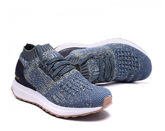
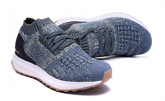
add link highlight, aligne images in gallery

diff --git a/src/Sidebar/styled.js b/src/Sidebar/styled.js
@@ -1,4 +1,5 @@
 import styled from 'styled-components';
+import { NavLink } from 'react-router-dom';
 
 export const Aside = styled.aside`
   width: 100%;
@@ -38,5 +39,30 @@ export const MenuWrapper = styled.nav`
     padding-top: 120px;
     padding-bottom: 0px;
     text-align: center;
+  }
+`;
+
+export const StyledLink = styled(NavLink)`
+  font-family: 'AndaleMono';
+  padding-top: 26px;
+  padding-bottom: 26px;
+  color: #3c3c3c;
+  display: block;
+  text-decoration: none;
+  border-bottom: 1px solid #3c3c3c;
+  padding-left: 30px;
+  @media screen and (min-width: 768px) {
+    border-bottom: none;
+    padding-left: 0px;
+    padding-bottom: 0px;
+  }
+  &:hover {
+    color: #fff;
+  }
+  &:first-child {
+    padding-top: 0px;
+  } 
+  &.active {
+    color: #fff;
   }
 `;

diff --git a/src/Sidebar/Menu/styled.js b/src/Sidebar/Menu/styled.js
@@ -1,5 +1,4 @@
 import styled from 'styled-components';
-import { Link } from 'react-router-dom';
 
 export const Wrapper = styled.div`
 `;
@@ -20,27 +19,6 @@ export const MenuIcon = styled.img`
   @media screen and (min-width: 768px) {  
   display:none;
   }
-`;
-export const StyledLink = styled(Link)`
-  font-family: 'AndaleMono';
-  padding-top: 26px;
-  padding-bottom: 26px;
-  color: #3c3c3c;
-  display: block;
-  text-decoration: none;
-  border-bottom: 1px solid #3c3c3c;
-  padding-left: 30px;
-  @media screen and (min-width: 768px) {
-    border-bottom: none;
-    padding-left: 0px;
-    padding-bottom: 0px;
-  }
-  &:hover {
-    color: #fff;
-  }
-  &:first-child {
-    padding-top: 0px;
-  } 
 `;
 
 export const ButtonTitle = styled.button`

diff --git a/src/Products/Show/Gallery/styled.js b/src/Products/Show/Gallery/styled.js
@@ -7,6 +7,7 @@ export const Wrapper = styled.div`
 export const ImageWrapper = styled.div`
   z-index: -10;
   padding-top: 4px;
+  text-align: center;
 `;
 export const BigImage = styled.img`
   width: 100%;
@@ -19,8 +20,8 @@ export const Slide = styled.img`
   width: 100%;
 `;
 export const Thumbnails = styled.div`
-  display: flex;
-  align-items: center;
+  display: block;
+  text-align: center;
 `;
 export const ButtonImage = styled.button`
   cursor: pointer;  
@@ -28,8 +29,8 @@ export const ButtonImage = styled.button`
   padding: 0px;
   background: none;
   margin-right: 10px;
+  border: ${props => (props.isSelected ? '5px solid #e0e0e0' : 'none')};
   &:focus {
-    border: 5px solid #e0e0e0;
     outline: none;
   }
 `;

diff --git a/src/Products/Show/Gallery/index.jsx b/src/Products/Show/Gallery/index.jsx
@@ -48,8 +48,15 @@ class Gallery extends Component {
         </ImageWrapper>
         <Thumbnails>
           {images.map((image, index) => (
-            <ButtonImage key={image.preview} onClick={() => this.selectImg(index)}>
-              <Slide src={image.preview} alt="shoes slide" />
+            <ButtonImage
+              key={image.preview}
+              onClick={() => this.selectImg(index)}
+              isSelected={this.state.selectedImgIndex === index}
+            >
+              <Slide
+                src={image.preview}
+                alt="shoes slide"
+              />
             </ButtonImage>
           ))}
         </Thumbnails>

diff --git a/src/Sidebar/index.jsx b/src/Sidebar/index.jsx
@@ -2,8 +2,8 @@ import React, { Component } from 'react';
 import Search from './Search';
 import Logo from './Logo';
 import Menu from './Menu';
-import { MenuWrapper, Aside } from './styled';
-import { StyledLink as Link, MenuIcon } from './Menu/styled';
+import { StyledLink as Link, MenuWrapper, Aside } from './styled';
+import { MenuIcon } from './Menu/styled';
 
 import hamburger from './Menu/menu-icon.png';
 

diff --git a/src/Products/Show/styled.js b/src/Products/Show/styled.js
@@ -44,6 +44,7 @@ export const Colors = styled.div`
     position: absolute;
     top: 32px;
     right: 136px;
+    padding-top: 10px;
   }
 `;
 
